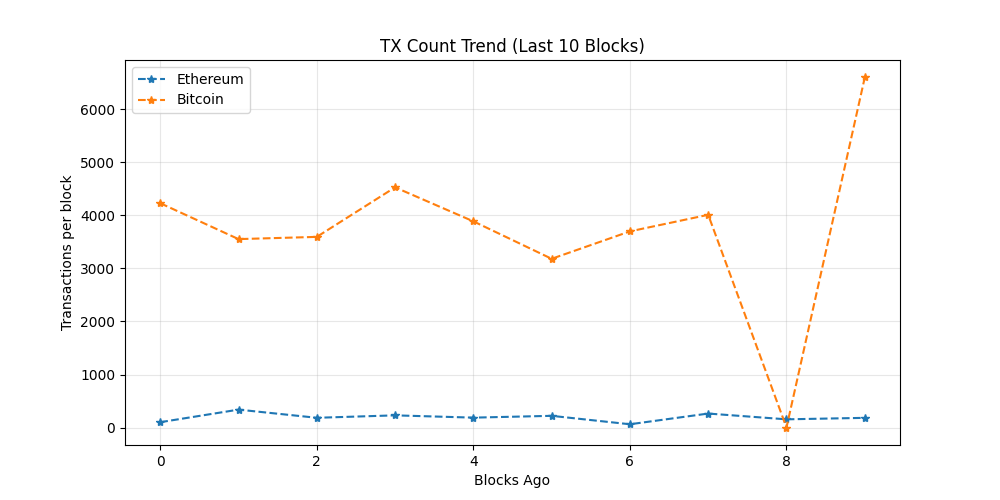
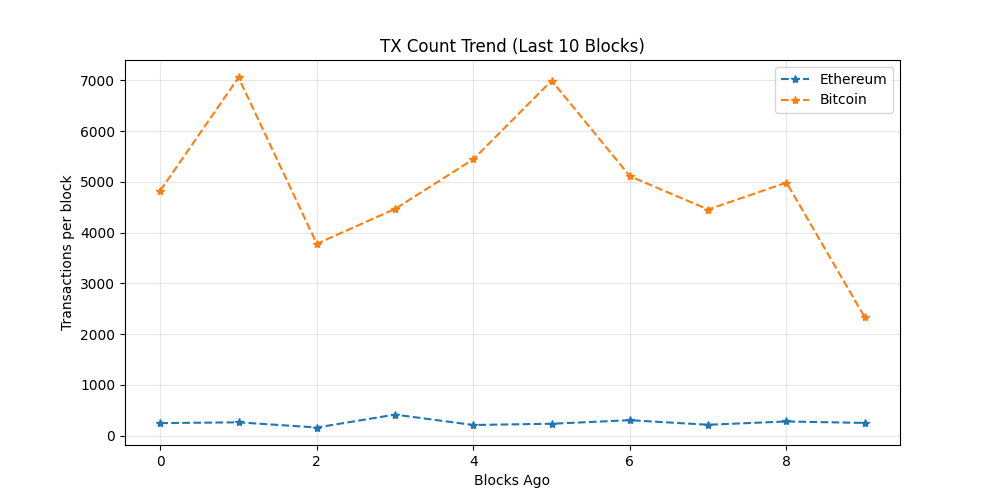
chore: update on-chain dashboard

diff --git a/README.md b/README.md
@@ -19,7 +19,7 @@ The README itself acts as the dashboard and is regenerated automatically on a 6 
 demonstrating a production-style, infrastructure-focused observability workflow rather
 than a traditional UI-driven approach.
 
-_Last updated: 2026-06-29 04:58 UTC_
+_Last updated: 2026-06-29 11:22 UTC_
 
 ## API Usage (GetBlock.io)
 - Calls used: **24**
@@ -27,8 +27,8 @@ _Last updated: 2026-06-29 04:58 UTC_
 ## Network Metrics
 | Chain | Block Height | TX Count | TPS (10 blk avg) | Block Util | Avg Fee |
 |------|-------------|----------|------------------|------------|---------|
-| Ethereum | 25421081 | 183 | 15.25 | 40.84% | 0.1 Gwei |
-| Bitcoin | 955883 | 6600 | 0.0 | 99.8% | N/A |
+| Ethereum | 25422994 | 250 | 20.83 | 38.0% | 0.1 Gwei |
+| Bitcoin | 955925 | 2332 | 1.27 | 99.79% | N/A |
 
 ## Visuals
 ### Transactions Trend
@@ -43,7 +43,11 @@ _Last updated: 2026-06-29 04:58 UTC_
 ## Whale Alerts (latest block)
 - Transaction hashes are truncated for readability.
 - Full hashes are available in `dashboards/metrics.json`
-- Bitcoin | 170.41 BTC | `dc89b492aceb…`
+- Bitcoin | 144.01 BTC | `209c09eb946b…`
+- Bitcoin | 255.37 BTC | `c4c190db2cf8…`
+- Bitcoin | 267.75 BTC | `57bb4058efff…`
+- Bitcoin | 142.61 BTC | `a37aa115f08e…`
+- Bitcoin | 660.0 BTC | `687bee2cde4a…`
 
 ## Run locally
 
